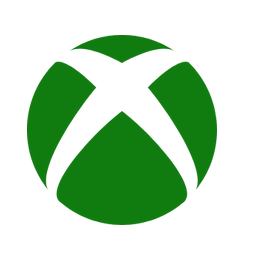
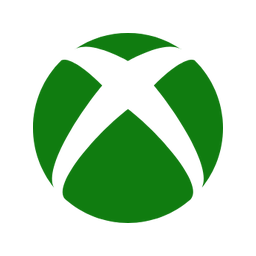
Center colored Xbox tray artwork
Remove the historical baked offset so the colored and monochrome logos share the same placement across display scales and themes.

diff --git a/halo/icon_artwork.py b/halo/icon_artwork.py
@@ -2,9 +2,9 @@
 
 The historical masks exclude the prototype's demonstration track/arcs/state.
 Microphone masks come from the local official SVG at uniform scale, no optical shift.
-Xbox and PlayStation color masters retain their aspect ratio and placement; the
-handoff optical offsets were applied ONCE when embedding (Xbox -0.375,+0.125
-logical pixels; PlayStation 0,0). Never translate these embedded masters again.
+Xbox and PlayStation color masters retain their aspect ratio and canonical
+centered placement with no optical offsets. The historical Xbox -0.375,+0.125
+logical-pixel correction was removed to align its color and monochrome geometry.
 Sources/licensing: see icon_artwork_sources.txt. No network or runtime data files.
 
 Lucide ISC License
@@ -619,143 +619,143 @@ _PNG = {
         'gg=='
     ),
     ('xbox-color', 256): (
[2 lines of base64/hex data omitted]
-        'wDAMwzAMwzAMwzAMwzAMwzAMwzAMwzAMwzAMwzAMwzAMwzAMwzAMwzAMwzAMwzAMwzAMwzAMwzAMwzAMwzAMwzAMwzAMwzAMwzAM'
[132 lines of base64/hex data omitted]
-        'hmEYhmEYhmEYhmEYhmEYhmEYhmEYhmEYhmEYhmEYhmEYhmEYhmEYhmEYhmEYhmEYhmEYhmEYhmEYhmEYhmEYhmEYhmEYhmEYhmEY'
-        'hmEYhoEW8P9yMWBJoh5DNgAAAABJRU5ErkJggg=='
[137 lines of base64/hex data omitted]
     ),
     ('playstation-color', 256): (
[1 lines of base64/hex data omitted]

diff --git a/tests/test_icon_artwork.py b/tests/test_icon_artwork.py
@@ -88,8 +88,36 @@ class ArtworkTests(unittest.TestCase):
         colors={ps.getpixel((x,y))[:3] for y in range(256) for x in range(256) if ps.getpixel((x,y))[3]>200}
         for color in ((222,0,41),(243,194,2),(50,109,179),(0,170,158)):
             self.assertIn(color,colors)
-        self.assertEqual(icon_artwork._image("xbox-color",256).getchannel("A").getbbox(),(27,35,217,225))
+        self.assertEqual(icon_artwork._image("xbox-color",256).getchannel("A").getbbox(),(33,33,223,223))
         self.assertEqual(icon_artwork._image("playstation-color",256).getchannel("A").getbbox(),(34,54,222,202))
+
+    def test_xbox_color_uses_canonical_mono_placement_in_both_themes(self):
+        def alpha_centroid(image):
+            alpha = image.getchannel("A")
+            pixels = [(x + .5, y + .5, alpha.getpixel((x, y)))
+                      for y in range(image.height) for x in range(image.width)]
+            mass = sum(a for x, y, a in pixels)
+            return (sum(x * a for x, y, a in pixels) / mass,
+                    sum(y * a for x, y, a in pixels) / mass)
+
+        for size in (16, 20, 24, 32, 40, 48, 64):
+            with self.subTest(size=size):
+                color = icon_artwork.glyph("gamepad", size, (255, 255, 255), 255, "xbox", True)
+                light = icon_artwork.glyph("gamepad", size, (0, 0, 0), 255, "xbox", True)
+                mono = icon_artwork.glyph("gamepad", size, (255, 255, 255), 255, "xbox", False)
+                self.assertEqual(color.tobytes(), light.tobytes())
+                # Historical per-size masks differ slightly at antialiased edges.
+                # Compare ink placement rather than requiring identical alpha bytes.
+                for actual, expected in zip(alpha_centroid(color), alpha_centroid(mono)):
+                    self.assertAlmostEqual(actual, expected, delta=.025)
+                for theme in (False, True):
+                    plain = icons.render(75, False, True, light_taskbar=theme, size=size)
+                    branded = icons.render(75, False, True, light_taskbar=theme, size=size,
+                                           badge="gamepad", brand="xbox", brand_color=True)
+                    for y in range(size):
+                        for x in range(size):
+                            if math.hypot(x + .5 - size / 2, y + .5 - size / 2) > 6.8 * size / 16:
+                                self.assertEqual(branded.getpixel((x, y)), plain.getpixel((x, y)))
 
     def test_charging_pulse_changes_ring_without_modulating_brand(self):
         frames=icons.charging_frames(None,True,20,False,"gamepad","",size=20,brand="playstation",brand_color=True)

diff --git a/artwork/tray/README.md b/artwork/tray/README.md
@@ -5,8 +5,11 @@ icon lab or handoff directory. The microphone is generated from the pinned local
 `lucide-mic.svg`, rather than extracted from the historical handoff. `masks.png` is a lossless L-mode alpha atlas:
 nine glyph rows (63 masks), seven physical sizes per row (16, 20, 24, 32, 40, 48, 64).
 `manifest.json` records every crop, semantic name, upstream source and license.
-The two RGBA color masters are 256 x 256. Their optical offsets are already
-applied; do not translate them again. They contain no ring or battery state.
+The two RGBA color masters are 256 x 256, at canonical centered placement with
+zero optical offsets. Xbox restores the original master by removing the historical
+(-6,+2)-pixel correction with its exact inverse (+6,-2); this aligns its color and
+monochrome geometry in both themes. Do not apply theme-specific translations.
+The masters contain no ring or battery state.
 
 Regenerate only the `_PNG` literal in `halo/icon_artwork.py`:
 
@@ -20,7 +23,7 @@ physical size and transparent padding. To add a glyph or size, allocate a new
 rectangle and add its name, size, box and source to the manifest; never overlap
 existing rectangles. Preserve proportions and optical placement. Update provenance
 and licensing when adding artwork. Update the color PNGs directly when needed,
-keeping offsets baked exactly once. The generator does not modify renderer code
+preserving canonical centered placement. The generator does not modify renderer code
 or apply optical offsets. PNG encoding uses Pillow; keep the same Pillow version
 when byte-for-byte base64 stability matters. Verify any encoder changes with
 pixel comparisons, then run `tests/test_icon_artwork.py` and inspect a contact sheet.

diff --git a/CHANGELOG.md b/CHANGELOG.md
@@ -8,6 +8,8 @@ and the project follows [Semantic Versioning](https://semver.org/).
 
 ### Fixed
 
+- Align the colored Xbox logo with its monochrome version across display scales.
+
 - Preserve each device's stable Windows tray identity, serialize native icon-handle
   swaps during taskbar refreshes, and retry failed icon updates.
 
